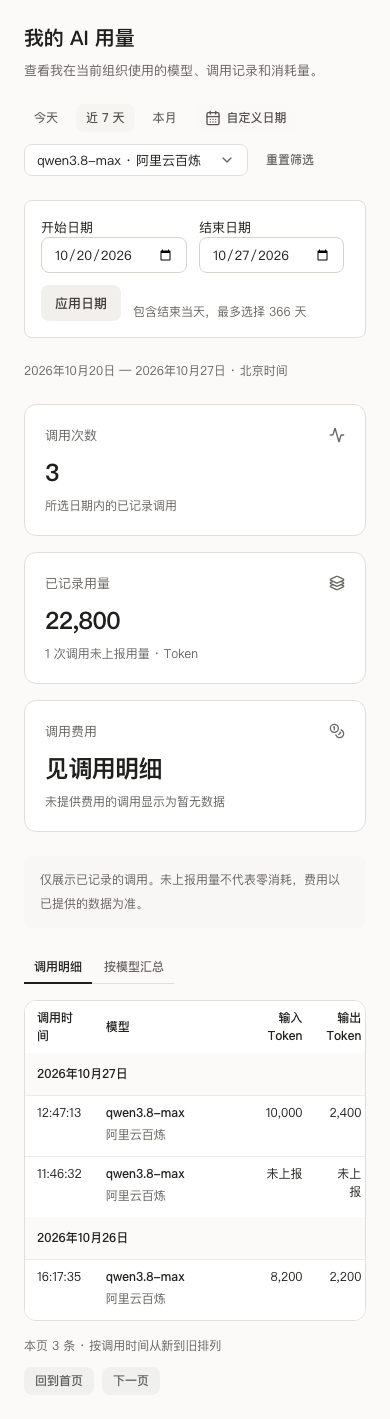
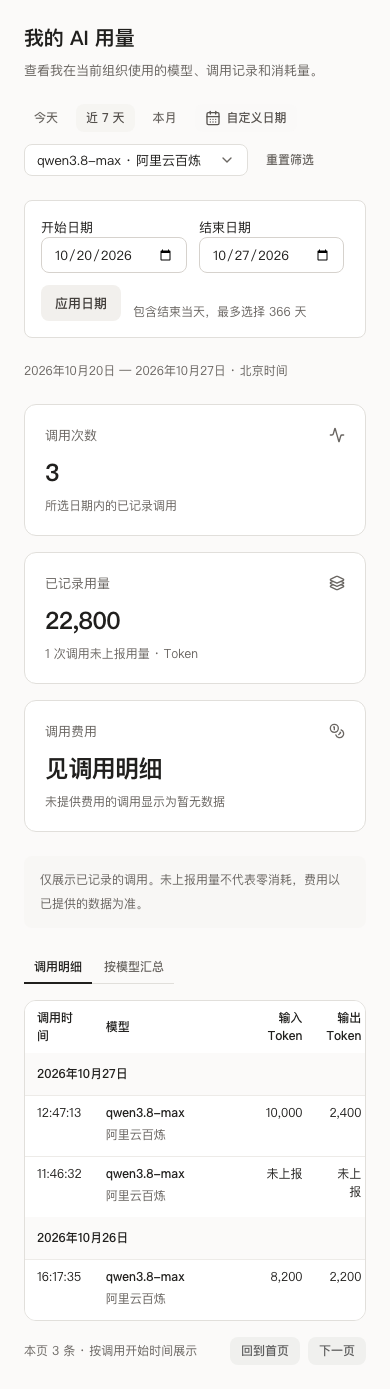
fix(usage): align displayed dates with request-start filtering

diff --git a/apps/web/components/admin/ai-usage-ledger.tsx b/apps/web/components/admin/ai-usage-ledger.tsx
@@ -5,12 +5,15 @@ import { useOrgMemberNames, memberLabel } from "@/lib/use-org-member-names";
 import type { UsageCalls } from "@/lib/live-ai-usage";
 import { costLabel, formatTokens, nativeQuantity, usageDateLabel, usageDay, usageTime } from "./ai-usage-format";
 
+const callTimestamp = (call: UsageCalls["calls"][number]) => call.startedAt ?? call.occurredAt;
+
 export function AiUsageLedger({ calls, orgId, selfUserId }: { calls: UsageCalls["calls"]; orgId: string; selfUserId?: string }) {
   const names = useOrgMemberNames(selfUserId ? null : orgId);
   const days = new Map<string, UsageCalls["calls"]>();
   for (const call of calls) {
-    // Group by the same ledger timestamp used for sorting and pagination.
-    const day = usageDay(call.occurredAt);
+    // Match the API date filter (request start, falling back to receipt time).
+    // Cursor identity continues to use occurredAt unchanged.
+    const day = usageDay(callTimestamp(call));
     days.set(day, [...(days.get(day) ?? []), call]);
   }
   return <Table data-testid="usage-ledger">
@@ -19,10 +22,10 @@ export function AiUsageLedger({ calls, orgId, selfUserId }: { calls: UsageCalls[
       <TableHead className="text-right">输入 Token</TableHead><TableHead className="text-right">输出 Token</TableHead>
       <TableHead className="text-right">总用量</TableHead><TableHead className="text-right">费用</TableHead><TableHead>状态</TableHead>
     </TableRow></TableHeader>
-    {[...days].map(([day, rows]) => <TableBody key={day}>
+    {[...days].sort(([left], [right]) => right.localeCompare(left)).map(([day, rows]) => <TableBody key={day}>
       <TableRow className="bg-muted/40 transition-colors hover:bg-muted/40"><TableCell colSpan={selfUserId ? 7 : 8} className="py-3 font-medium">{usageDateLabel(`${day}T00:00:00+08:00`)}</TableCell></TableRow>
-      {rows.map(call => <TableRow key={call.id}>
-        <TableCell className="whitespace-nowrap align-top tabular-nums">{usageTime(call.occurredAt)}</TableCell>
+      {[...rows].sort((left, right) => Date.parse(callTimestamp(right)) - Date.parse(callTimestamp(left))).map(call => <TableRow key={call.id}>
+        <TableCell className="whitespace-nowrap align-top tabular-nums">{usageTime(callTimestamp(call))}</TableCell>
         <TableCell className="min-w-40 align-top"><span className="font-medium break-all">{call.modelId}</span><div className="mt-1 text-12 text-muted-foreground">{call.modelProvider}</div></TableCell>
         {!selfUserId && <TableCell className="align-top">{memberLabel(call.userId, selfUserId, names)}</TableCell>}
         <TableCell className="text-right align-top tabular-nums">{call.totalSource === "not-applicable" ? "—" : formatTokens(call.inputTokens)}</TableCell>

diff --git a/apps/web/components/admin/ai-usage-panel.tsx b/apps/web/components/admin/ai-usage-panel.tsx
@@ -110,7 +110,7 @@ function UsageReport({ orgId, platform, selfUserId }: { orgId: string; platform:
             {!calls && !callsError && <div role="status" aria-label="正在加载调用明细" className="space-y-3 p-6">{[1, 2, 3].map(key => <Skeleton key={key} className="h-12" />)}</div>}
             {calls && (calls.calls.length ? <AiUsageLedger orgId={orgId} selfUserId={selfUserId} calls={calls.calls} /> : <div className="space-y-2 px-6 py-12 text-center"><CalendarDays className="mx-auto size-6 text-muted-foreground" aria-hidden /><p className="font-medium">暂无调用记录</p><p className="text-13 text-muted-foreground">试试其他日期或模型；未记录的调用不会出现在这里。</p></div>)}
           </div>
-          {calls && <div className="mt-4 flex flex-wrap items-center justify-between gap-3"><p className="text-12 text-muted-foreground">本页 {calls.calls.length} 条 · 按调用时间从新到旧排列</p><div className="flex gap-2"><Button variant="outline" size="sm" disabled={!cursor} onClick={() => setCursor(null)}>回到首页</Button><Button variant="outline" size="sm" disabled={!calls.nextCursor} onClick={() => setCursor(calls.nextCursor)}>下一页</Button></div></div>}
+          {calls && <div className="mt-4 flex flex-wrap items-center justify-between gap-3"><p className="text-12 text-muted-foreground">本页 {calls.calls.length} 条 · 按调用开始时间展示</p><div className="flex gap-2"><Button variant="outline" size="sm" disabled={!cursor} onClick={() => setCursor(null)}>回到首页</Button><Button variant="outline" size="sm" disabled={!calls.nextCursor} onClick={() => setCursor(calls.nextCursor)}>下一页</Button></div></div>}
         </TabsContent>
         <TabsContent value="models" className="mt-4">
           <div className="overflow-x-auto rounded-xl border bg-card"><Table><TableHeader><TableRow><TableHead>模型</TableHead><TableHead className="text-right">调用次数</TableHead><TableHead className="text-right">已记录 Token</TableHead><TableHead><span className="sr-only">查看明细</span></TableHead></TableRow></TableHeader><TableBody>

diff --git a/apps/web/tests/ui/ai-usage-panel.test.tsx b/apps/web/tests/ui/ai-usage-panel.test.tsx
@@ -81,3 +81,11 @@ it("does not invent reported/estimated zero buckets for unknown native usage", a
  expect(screen.queryByText(/0 张图片/)).toBeNull();
  expect(screen.getByText(/图片：1 次调用未上报/)).toBeTruthy();
 });
+
+it("groups cross-midnight calls by request start, matching the date filter", async () => {
+ vi.mocked(readAiUsageCalls).mockResolvedValue({asOf:summary.asOf,coverage:"partial",nextCursor:null,calls:[{...call,startedAt:"2026-10-01T15:59:00Z",occurredAt:"2026-10-01T16:01:00Z"}]});
+ render(<AiUsagePanel orgId="org-a" selfUserId="self-a"/>);
+ await screen.findByText("2026年10月1日");
+ expect(screen.getByText("23:59:00")).toBeTruthy();
+ expect(screen.queryByText("2026年10月2日")).toBeNull();
+});

diff --git a/docs/evidence/ai-usage-5943/progress.md b/docs/evidence/ai-usage-5943/progress.md
@@ -11,3 +11,4 @@ User approved the bill-style layout on 2026-10-27. Implemented in the existing w
 - Browser check uses the actual bundled components and design CSS with explicitly intercepted fixture ledger endpoints, not live production data.
 - Coordination boundary: harness readiness/active-features ran; tick cannot run without COORD_GATEWAY_URL. No coordination identities or leases fabricated.
 - PR: https://github.com/boardx/workspacex/pull/5944. Push hook also passed full Web lint and typecheck. Browser screenshots were visually inspected; dark capture now explicitly waits for theme transitions to settle before checking inherited table color.
+- GitHub review found the API filters by request start rather than receipt time. Added and observed a failing Beijing-midnight regression, then changed display/grouping to startedAt ?? occurredAt and retained occurredAt/id cursors. Final affected test suite: 25 passed; browser checks and full Web lint/typecheck repeated.
